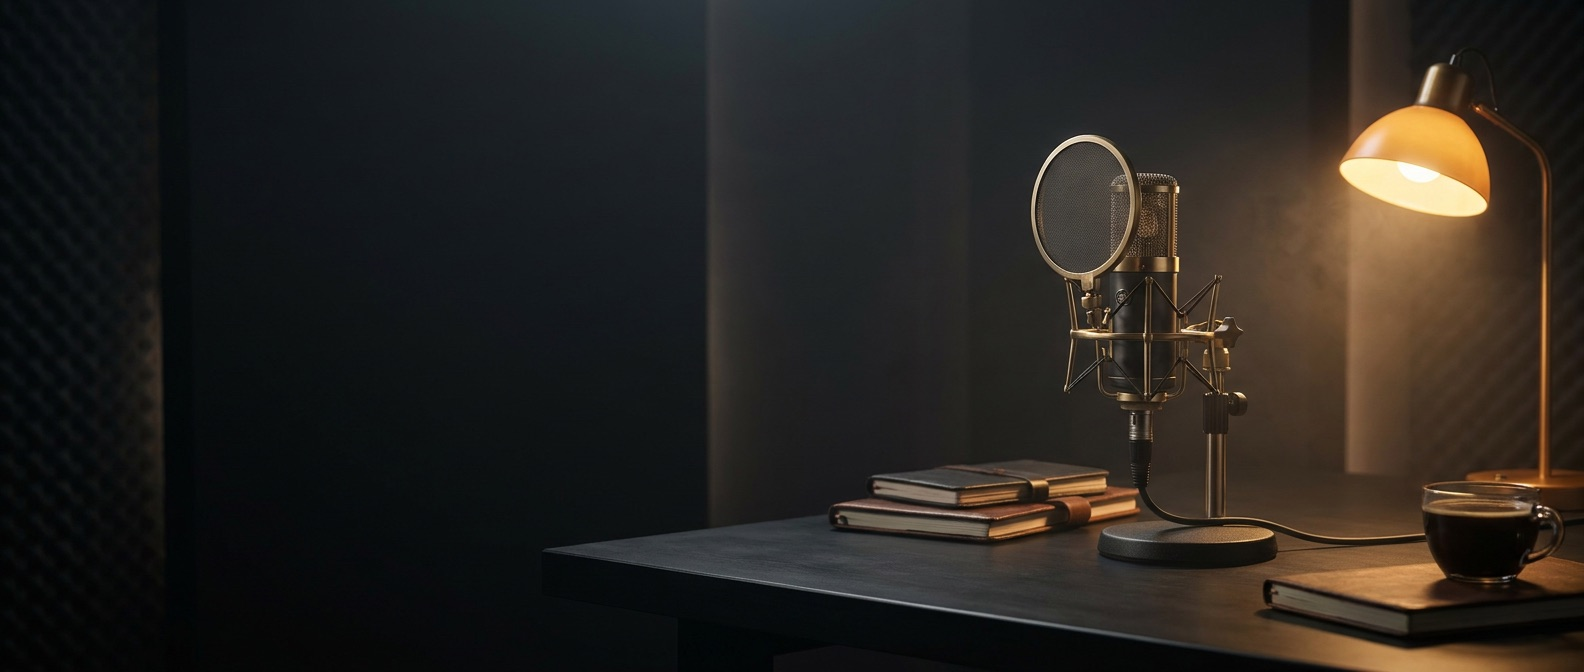
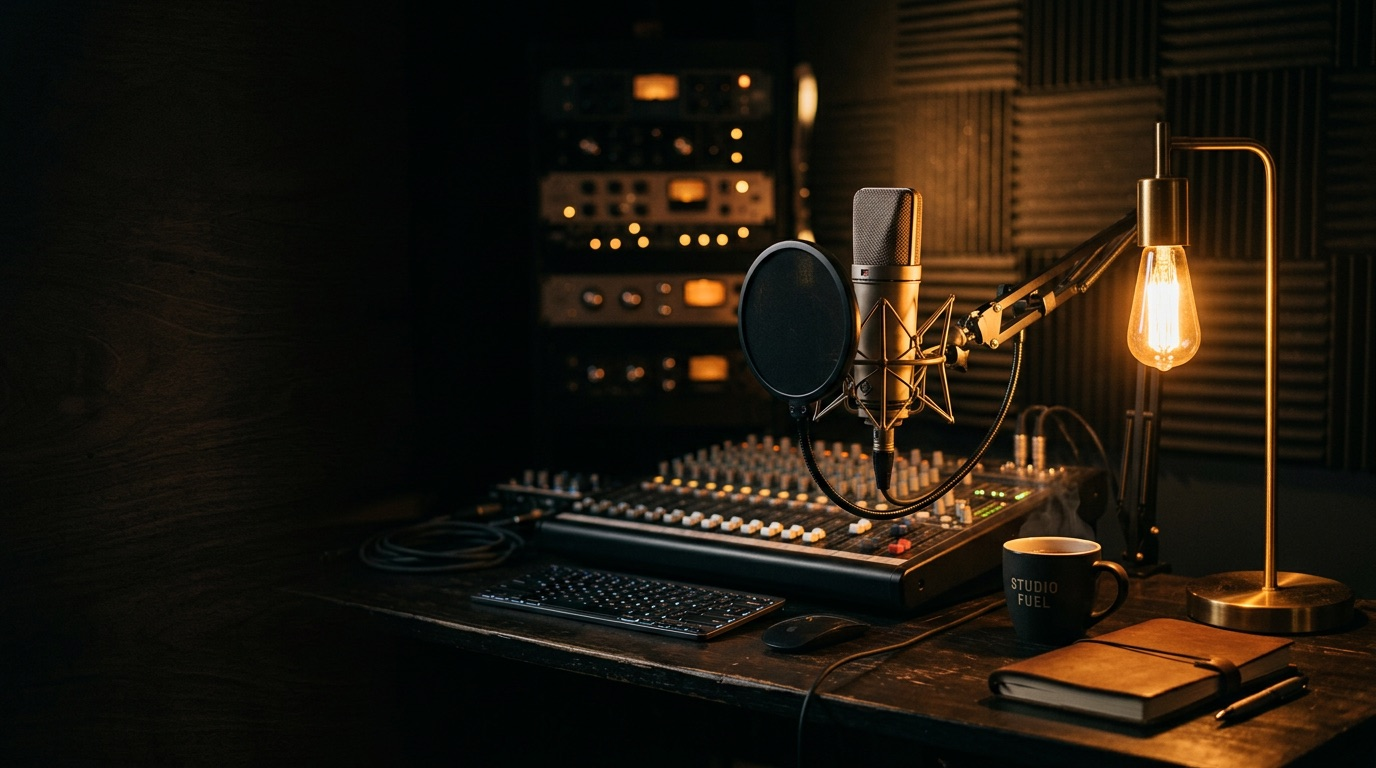
feat(design): match the target dark-studio mock across the shell and home
New navy-tinted palette on one continuous surface (no inset panel),
sidebar with bordered active item, glowing amber icons and a boxed
On-device footer. Home page per the mock: greeting row with monogram
avatar, stacked two-line serif hero over a new generated studio photo,
stat rows with amber icon badges (A, gauge, flame), timeline dots on
the feed with a glowing latest entry, kebab row menus, and a voice
profile card grounded by a generated golden particle waveform.

diff --git a/ui/index.html b/ui/index.html
@@ -7,8 +7,8 @@
 @font-face{font-family:'Instrument Serif';src:url('assets/fonts/InstrumentSerif-Regular.ttf');font-weight:400}
 @font-face{font-family:'Instrument Serif';src:url('assets/fonts/InstrumentSerif-Italic.ttf');font-style:italic}
 :root{
-  --bg:#0c0c0f; --panel:#141419; --panel-2:#1a1a21; --line:rgba(255,255,255,.07);
-  --text:#e8e6e1; --muted:#8b8a93; --faint:#5b5a63;
+  --bg:#0d1016; --panel:#12151c; --panel-2:#181c24; --line:rgba(255,255,255,.08);
+  --text:#e9e7e2; --muted:#8f909a; --faint:#5d5f6a;
   --amber:#e8a33d; --amber-soft:rgba(232,163,61,.14); --green:#69c87e;
   --serif:'Instrument Serif',Georgia,serif;
   --sans:-apple-system,BlinkMacSystemFont,'SF Pro Text',sans-serif;
@@ -31,32 +31,31 @@ body::after{content:'';position:fixed;inset:0;pointer-events:none;opacity:.05;z-
 body::before{content:'';position:fixed;inset:0;pointer-events:none;z-index:98;
   background:radial-gradient(1200px 700px at 70% -10%, rgba(232,163,61,.05), transparent 55%)}
 
-.app{display:flex;height:100vh;padding:6px 12px 12px 0;gap:2px}
+.app{display:flex;height:100vh}
 
 /* ── sidebar ─────────────────────────────── */
-.side{width:216px;min-width:216px;padding:34px 12px 16px;
-  display:flex;flex-direction:column;background:transparent}
-.brand{display:flex;align-items:center;gap:9px;padding:0 10px 22px}
-.brand .logo{width:27px;height:27px;border-radius:7px;box-shadow:0 1px 6px rgba(0,0,0,.5)}
-.brand .name{font:italic 23px var(--serif);letter-spacing:.2px}
+.side{width:248px;min-width:248px;padding:40px 20px 20px;
+  display:flex;flex-direction:column;background:transparent;border-right:1px solid var(--line)}
+.brand{display:flex;align-items:center;gap:11px;padding:0 8px 30px}
+.brand .logo{width:30px;height:30px;border-radius:8px;box-shadow:0 1px 8px rgba(0,0,0,.5)}
+.brand .name{font:italic 24px var(--serif);letter-spacing:.2px}
 .brand .tier{font-size:9.5px;letter-spacing:.14em;color:var(--amber);border:1px solid rgba(232,163,61,.4);
-  border-radius:4px;padding:1px 6px;text-transform:uppercase}
-.nav{display:flex;flex-direction:column;gap:2px}
-.nav button{display:flex;align-items:center;gap:11px;background:none;color:var(--muted);
-  padding:8.5px 10px;border-radius:9px;text-align:left;font-size:13px}
-.nav button svg{width:16px;height:16px;stroke:currentColor;fill:none;stroke-width:1.7;flex:none}
-.nav button:hover{color:var(--text);background:rgba(255,255,255,.04)}
-.nav button.on{color:var(--text);background:rgba(255,255,255,.065)}
-.nav button.on svg{stroke:var(--amber)}
-.side .foot{margin-top:auto;padding:12px 10px 0;border-top:1px solid var(--line);
-  color:var(--faint);font-size:11px;display:flex;justify-content:space-between;align-items:center}
+  border-radius:5px;padding:1.5px 7px;text-transform:uppercase}
+.nav{display:flex;flex-direction:column;gap:7px}
+.nav button{display:flex;align-items:center;gap:13px;background:none;color:var(--muted);
+  padding:12px 14px;border-radius:12px;text-align:left;font-size:13.5px;border:1px solid transparent}
+.nav button svg{width:17px;height:17px;stroke:currentColor;fill:none;stroke-width:1.7;flex:none}
+.nav button:hover{color:var(--text);background:rgba(255,255,255,.035)}
+.nav button.on{color:var(--text);background:rgba(255,255,255,.045);border-color:var(--line)}
+.nav button.on svg{stroke:var(--amber);filter:drop-shadow(0 0 6px rgba(232,163,61,.7))}
+.side .foot{margin-top:auto;color:var(--faint);font-size:11.5px;display:flex;
+  justify-content:space-between;align-items:center;border:1px solid var(--line);
+  border-radius:12px;padding:12px 14px}
 .dot-live{width:6px;height:6px;border-radius:50%;background:var(--green);display:inline-block;margin-right:6px}
 
-/* ── main: inset rounded panel, Flow-style ── */
-.main{flex:1;overflow-y:auto;padding:40px 44px 60px;position:relative;
-  background:#111116;border:1px solid var(--line);border-radius:16px;
-  box-shadow:0 10px 34px rgba(0,0,0,.38)}
-.page{max-width:880px;margin:0 auto}
+/* ── main: flat canvas on the shared surface ── */
+.main{flex:1;overflow-y:auto;padding:44px 52px 64px;position:relative}
+.page{max-width:1120px;margin:0 auto}
 .page.leaving{animation:pgOut .16s ease forwards}
 @keyframes pgOut{to{opacity:0;transform:translateY(6px)}}
 .reveal{opacity:0;animation:up .5s cubic-bezier(.22,.9,.28,1) forwards;animation-delay:calc(var(--i,0)*70ms)}
@@ -67,19 +66,25 @@ h1.pg em{color:var(--amber)}
 .sub{color:var(--muted);margin-bottom:28px;font-size:13px}
 .k{font:400 15px var(--sans);font-weight:600;letter-spacing:.01em}
 
-.card{background:var(--panel);border:1px solid var(--line);border-radius:14px;padding:20px}
-.row2{display:grid;grid-template-columns:1fr 292px;gap:18px;align-items:start}
+.card{background:var(--panel);border:1px solid var(--line);border-radius:16px;padding:20px}
+.row2{display:grid;grid-template-columns:1fr 330px;gap:24px;align-items:start}
+
+/* header row with monogram */
+.pghead{display:flex;justify-content:space-between;align-items:flex-start;gap:20px}
+.avatar{width:44px;height:44px;border-radius:50%;border:1px solid rgba(232,163,61,.55);
+  display:flex;align-items:center;justify-content:center;color:var(--amber);
+  font-size:13px;letter-spacing:.08em;flex:none;margin-top:6px}
 
 /* hero */
-.hero{position:relative;border-radius:16px;overflow:hidden;border:1px solid var(--line);min-height:196px;
-  display:flex;flex-direction:column;justify-content:center;padding:30px 34px}
+.hero{position:relative;border-radius:18px;overflow:hidden;border:1px solid var(--line);min-height:330px;
+  display:flex;flex-direction:column;justify-content:center;padding:40px 42px}
 .hero img{position:absolute;inset:0;width:100%;height:100%;object-fit:cover;z-index:0}
 .hero .shade{position:absolute;inset:0;z-index:1;
-  background:linear-gradient(92deg, rgba(10,10,13,.93) 22%, rgba(10,10,13,.55) 55%, rgba(10,10,13,.08))}
+  background:linear-gradient(92deg, rgba(11,13,18,.95) 30%, rgba(11,13,18,.6) 55%, rgba(11,13,18,.05))}
 .hero>*{position:relative;z-index:2}
-.hero h2{font:400 30px/1.15 var(--serif);margin-bottom:8px}
+.hero h2{font:400 42px/1.12 var(--serif);margin-bottom:14px}
 .hero h2 em{font-style:italic;color:var(--amber)}
-.hero p{color:#c9c7c0;max-width:400px;font-size:13px}
+.hero p{color:#c9c7c0;max-width:340px;font-size:13.5px;line-height:1.6}
 
 /* status strip */
 .status{display:flex;gap:14px;align-items:center;margin-top:18px}
@@ -114,24 +119,53 @@ h1.pg em{color:var(--amber)}
 .dategrp{color:var(--faint);font-size:10.5px;letter-spacing:.14em;text-transform:uppercase;
   margin:20px 0 4px;padding-left:6px}
 
-/* home feed */
-.feed{margin-top:20px}
+/* home feed with timeline dots */
+.feed{margin-top:26px}
 .feedhead{display:flex;justify-content:space-between;align-items:center;color:var(--faint);
-  font-size:10.5px;letter-spacing:.14em;text-transform:uppercase;margin:18px 2px 8px}
+  font-size:10.5px;letter-spacing:.14em;text-transform:uppercase;margin:20px 2px 10px}
 .feed .feedhead:first-of-type{margin-top:0}
-.feedcard{padding:4px 18px}
-.hrow .iconbtn{opacity:0;transition:opacity .15s}
-.hrow:hover .iconbtn,.hrow .iconbtn:focus{opacity:1}
+.feedcard{padding:6px 20px 6px 30px;position:relative}
+.feedcard .hrow{position:relative;padding:16px 6px}
+.feedcard .hrow::before{content:'';position:absolute;left:-19px;top:22px;width:7px;height:7px;
+  border-radius:50%;border:1.5px solid rgba(232,163,61,.75);background:transparent}
+.feedcard .hrow:first-child::before{background:var(--amber);border-color:var(--amber);
+  box-shadow:0 0 10px rgba(232,163,61,.9)}
+.hrow .iconbtn,.hrow .kebab{opacity:0;transition:opacity .15s}
+.hrow:hover .iconbtn,.hrow:hover .kebab,.hrow .kebab:focus{opacity:1}
 
 /* stat stack (right rail) */
-.statstack{padding:6px 20px}
-.statstack .srow2{display:flex;align-items:baseline;justify-content:space-between;gap:12px;
-  padding:15px 0;border-bottom:1px solid var(--line)}
+.statstack{padding:10px 24px}
+.statstack .srow2{display:flex;align-items:center;gap:18px;
+  padding:20px 0;border-bottom:1px solid var(--line)}
 .statstack .srow2:last-child{border-bottom:none}
-.statstack .n{font:400 30px/1 var(--serif)}
-.statstack .l{color:var(--muted);font-size:11px;letter-spacing:.08em;text-transform:uppercase}
-.vp{cursor:pointer;transition:border-color .18s}
+.statstack .badge{width:44px;height:44px;border-radius:12px;border:1px solid rgba(232,163,61,.45);
+  display:flex;align-items:center;justify-content:center;color:var(--amber);flex:none;
+  box-shadow:0 0 14px rgba(232,163,61,.12) inset, 0 0 10px rgba(232,163,61,.1)}
+.statstack .badge svg{width:23px;height:23px;stroke:var(--amber);fill:none;stroke-width:1.6}
+.statstack .badge.flame svg{fill:var(--amber);stroke:none;filter:drop-shadow(0 0 7px rgba(232,163,61,.8))}
+.statstack .badge .glyph{font:400 23px var(--serif)}
+.statstack .n{font:400 36px/1 var(--serif)}
+.statstack .l{color:var(--muted);font-size:11px;letter-spacing:.1em;text-transform:uppercase;
+  margin-left:auto;text-align:right}
+.vp{cursor:pointer;transition:border-color .18s;position:relative;overflow:hidden;padding:24px}
 .vp:hover{border-color:rgba(232,163,61,.35)}
+.vp .wave{position:absolute;left:0;right:0;bottom:-6px;width:100%;height:150px;object-fit:cover;
+  object-position:bottom;pointer-events:none;opacity:.9;
+  -webkit-mask-image:linear-gradient(180deg, transparent 0, #000 55%)}
+.vp .body{position:relative;z-index:1}
+.vp .go{display:inline-block;border:1px solid var(--line);border-radius:10px;padding:8px 14px;
+  color:var(--text);font-size:12.5px;margin-top:14px;background:rgba(13,16,22,.55)}
+.vp:hover .go{border-color:rgba(232,163,61,.4);color:var(--amber)}
+
+/* kebab row menu */
+.kebab{background:none;color:var(--faint);padding:2px 8px;border-radius:6px;font-size:15px;
+  letter-spacing:1px;line-height:1}
+.kebab:hover{color:var(--text);background:rgba(255,255,255,.06)}
+.rowmenu{position:fixed;z-index:120;background:var(--panel-2);border:1px solid var(--line);
+  border-radius:10px;padding:5px;box-shadow:0 12px 30px rgba(0,0,0,.55);min-width:130px}
+.rowmenu button{display:block;width:100%;text-align:left;background:none;color:var(--text);
+  padding:8px 12px;border-radius:7px;font-size:12.5px}
+.rowmenu button:hover{background:rgba(255,255,255,.06)}
 
 /* help tooltips */
 .help{position:relative;display:inline-flex;align-items:center;justify-content:center;
@@ -409,16 +443,19 @@ dictation() {
     groups[groups.length - 1].items.push(item);
   }
   return `
-  <div class="reveal" style="--i:0">
-    <h1 class="pg">${greet}${who}.</h1>
-    <p class="sub">Everything below happened on this Mac. Nothing leaves it.</p>
+  <div class="pghead reveal" style="--i:0">
+    <div>
+      <h1 class="pg">${greet}${who}.</h1>
+      <p class="sub">Everything below happened on this Mac. Nothing leaves it.</p>
+    </div>
+    ${S.initials ? `<div class="avatar">${esc(S.initials)}</div>` : ''}
   </div>
   <div class="row2">
     <div>
       <div class="hero reveal" style="--i:1">
         <img src="assets/banner.jpg" alt="">
         <div class="shade"></div>
-        <h2>Speak. <em>It types.</em></h2>
+        <h2>Speak.<br><em>It types.</em></h2>
         <p>Hold the chord in any app, talk naturally, release. Clean text lands at your cursor.</p>
         <div class="status">
           <span class="pill" id="recpill"><span class="rec"></span><span id="recword">Standing by</span></span>
@@ -435,21 +472,26 @@ dictation() {
            <div class="card feedcard"><div class="empty">Hold the chord and say something. It appears here.</div></div>`}
       </div>
     </div>
-    <div style="display:flex;flex-direction:column;gap:14px">
+    <div style="display:flex;flex-direction:column;gap:24px">
       <div class="card statstack reveal" style="--i:2">
-        <div class="srow2"><span class="n">${fmtN(st.total_words)}</span><span class="l">total words</span></div>
-        <div class="srow2"><span class="n">${st.wpm||'·'}</span><span class="l">words / minute</span></div>
-        <div class="srow2"><span class="n">${st.streak}</span><span class="l">day streak</span></div>
+        <div class="srow2"><span class="badge"><span class="glyph">A</span></span>
+          <span class="n">${fmtN(st.total_words)}</span><span class="l">total words</span></div>
+        <div class="srow2"><span class="badge"><svg viewBox="0 0 24 24"><path d="M12 14l4.5-5M4.5 17.5a9 9 0 1 1 15 0"/><circle cx="12" cy="15" r="1.6"/></svg></span>
+          <span class="n">${st.wpm||'·'}</span><span class="l">words / minute</span></div>
+        <div class="srow2"><span class="badge flame"><svg viewBox="0 0 24 24"><path d="M12 2c.6 3.6-2.7 5.4-2.7 8.6a2.7 2.7 0 0 0 5.4.2c1.2 1 2 2.5 2 4.2a4.7 4.7 0 1 1-9.4 0C7.3 9.8 13.4 8.6 12 2z"/></svg></span>
+          <span class="n">${st.streak}</span><span class="l">day streak</span></div>
       </div>
       <div class="card vp reveal" style="--i:4" onclick="go('insights')">
-        <div class="lab" style="color:var(--faint);font-size:10.5px;letter-spacing:.15em;text-transform:uppercase;margin-bottom:8px">Voice profile</div>
-        <div style="display:flex;justify-content:space-between;gap:10px;align-items:flex-start">
-          <div>
-            <div style="font:400 21px var(--serif)">${esc(v.profile)}</div>
-            <div style="color:var(--muted);font-size:12px;margin-top:5px">${esc(v.profile_blurb)}</div>
-            <span class="iconbtn" style="margin-top:8px;padding-left:0;display:inline-block">Open insights →</span>
+        <img class="wave" src="assets/wave.jpg" alt="" onerror="this.remove()">
+        <div class="body">
+          <div class="lab" style="color:var(--faint);font-size:10.5px;letter-spacing:.15em;text-transform:uppercase;margin-bottom:10px">Voice profile</div>
+          <div style="display:flex;justify-content:space-between;gap:10px;align-items:flex-start">
+            <div style="font:400 26px var(--serif)">${esc(v.profile)}</div>
+            <div style="font:italic 40px/0.6 var(--serif);color:rgba(232,163,61,.55)">”</div>
           </div>
-          <div style="font:italic 46px/0.6 var(--serif);color:rgba(232,163,61,.3);padding-top:14px">”</div>
+          <div style="color:var(--muted);font-size:12.5px;margin-top:8px;line-height:1.6">${esc(v.profile_blurb)}</div>
+          <span class="go">Open insights →</span>
+          <div style="height:110px"></div>
         </div>
       </div>
     </div>
@@ -651,9 +693,23 @@ function hRow(h) {
   return `<div class="hrow"><span class="t">${fmtTime(h.ts)}</span>
     ${h.app ? `<span class="appchip" title="${esc(h.app)}">${esc(h.app)}</span>` : ''}
     <span class="x">${esc(h.text)}</span><span class="w">${h.words}w</span>
-    <button class="iconbtn" onclick="copyText(this)" data-t="${esc(h.text)}">Copy</button></div>`;
+    <button class="kebab" onclick="rowMenu(event, this)" data-t="${esc(h.text)}">⋮</button></div>`;
 }
 window.copyText = btn => { call('copy', {text: btn.dataset.t}); toast('Copied to clipboard'); };
+window.rowMenu = (ev, btn) => {
+  ev.stopPropagation();
+  document.querySelector('.rowmenu')?.remove();
+  const m = document.createElement('div');
+  m.className = 'rowmenu';
+  m.innerHTML = '<button>Copy text</button>';
+  m.firstChild.onclick = () => { call('copy', {text: btn.dataset.t}); toast('Copied to clipboard'); m.remove(); };
+  document.body.appendChild(m);
+  const r = btn.getBoundingClientRect();
+  m.style.left = Math.min(r.left, innerWidth - m.offsetWidth - 12) + 'px';
+  m.style.top = (r.bottom + 6) + 'px';
+  const close = e => { if (!m.contains(e.target)) { m.remove(); removeEventListener('mousedown', close); } };
+  addEventListener('mousedown', close);
+};
 window.go = go;
 
 /* ── wiring ────────────────────────────── */

diff --git a/window.py b/window.py
@@ -135,12 +135,15 @@ class _Bridge(NSObject):
         if op == "init":
             try:
                 from Foundation import NSFullUserName
-                first_name = str(NSFullUserName()).split()[0]
+                parts = str(NSFullUserName()).split()
+                first_name = parts[0] if parts else ""
+                initials = "".join(p[0] for p in parts[:2]).upper()
             except Exception:
-                first_name = ""
+                first_name, initials = "", ""
             return {
                 "version": APP_VERSION,
                 "user": first_name,
+                "initials": initials,
                 "config": c.cfg,
                 "status": c.status(),
                 "history": list(reversed(history.read_all())),
@@ -278,7 +281,7 @@ class Dashboard:
         from AppKit import NSColor
         # match the page background so the titlebar merges with the content
         self.window.setBackgroundColor_(
-            NSColor.colorWithSRGBRed_green_blue_alpha_(0.047, 0.047, 0.059, 1.0))
+            NSColor.colorWithSRGBRed_green_blue_alpha_(0.051, 0.063, 0.086, 1.0))
         self.window.setMinSize_((860, 560))
         self.window.setReleasedWhenClosed_(False)
 
